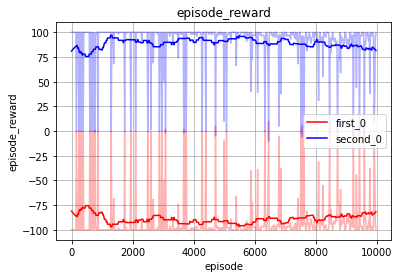
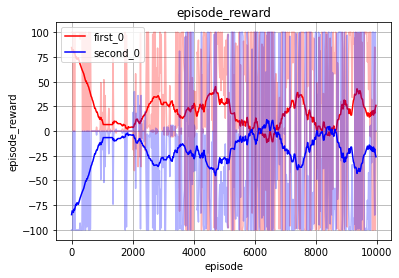
t

diff --git a/general_exploit.py b/general_exploit.py
@@ -14,7 +14,7 @@ def launch_rollout(env, method, load_id, save_id, to_exploit):
 
     # exploitation setting
     args.num_envs = 1
-    args.max_episodes = 10000  # exploitation episodes
+    args.max_episodes = 50000  # exploitation episodes
     args.against_baseline = False
     args.test = False
     # args.render = True
@@ -43,7 +43,7 @@ def launch_rollout(env, method, load_id, save_id, to_exploit):
         model = MultiAgent(env, [exploiter, trained_model], exploitation_args)
 
     ### Rollout
-    rollout(env, model, exploitation_args, save_id = load_id+f'_exploit_{to_exploit}') # save results of exploitation in a separate folder
+    rollout(env, model, exploitation_args, save_id = load_id+f'_exploit_{to_exploit}(50000)') # save results of exploitation in a separate folder
 
 if __name__ == '__main__':
     parser.add_argument('--env', type=str, default=None, help='environment')

diff --git a/generate_confs.py b/generate_confs.py
@@ -68,7 +68,7 @@ selfplay_score_deltas = { # specific for each environment
     'pong_v2': 10,
     'basketball_pong_v2': 30,
     'tennis_v2': 7,
-    'ice_hockey_v1': 6,
+    'ice_hockey_v1': 2,
     'double_dunk_v2': 19,
 }
 
